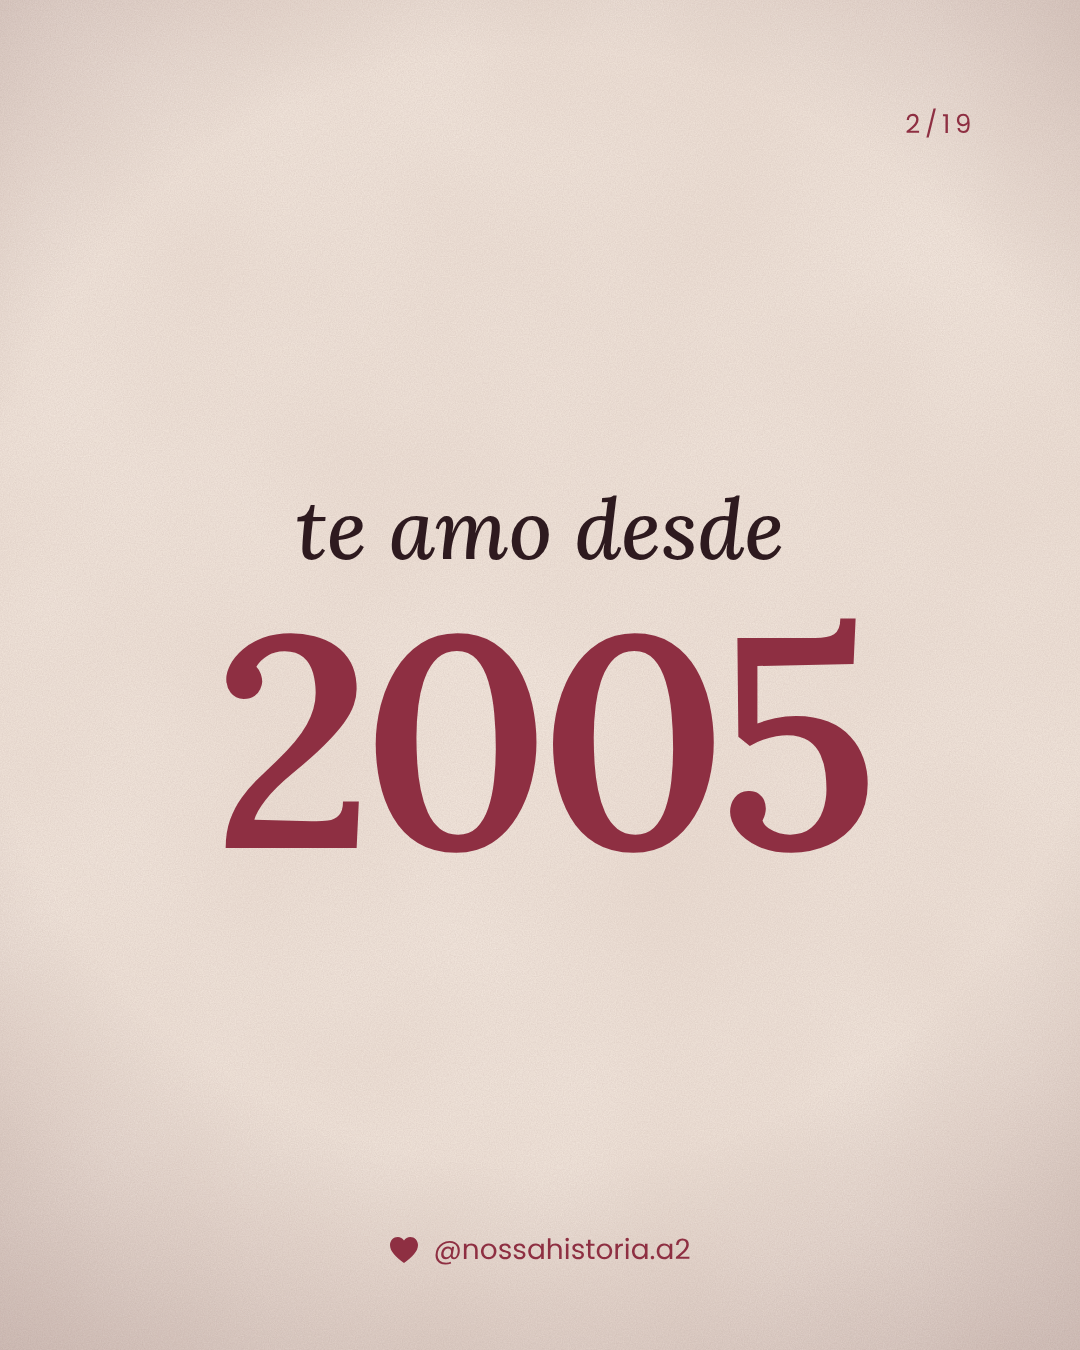
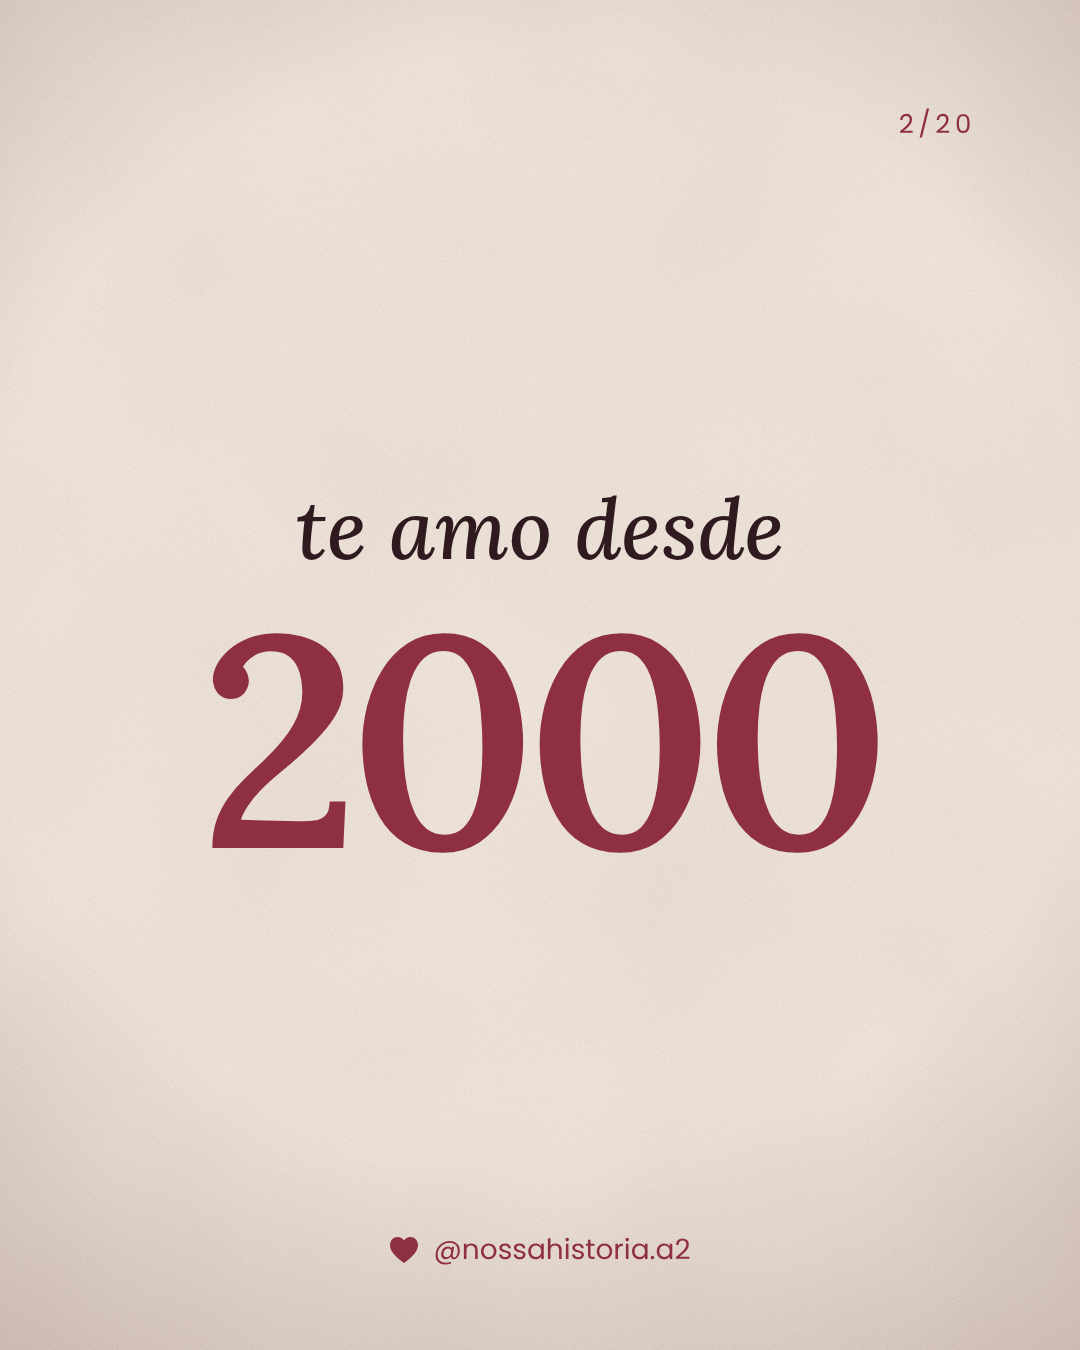
Te amo desde: capa com reticências (20 slides)
Claude-Session: https://claude.ai/code/session_01X3h8uRSGZDdmQFJ11Dj56s

Changed region(s): [[0.1833, 0.4356, 0.825, 0.6533], [0.8556, 0.0622, 0.8861, 0.0933]]

diff --git a/kit/template.html b/kit/template.html
@@ -113,7 +113,7 @@ const R = {
   // frase sobre foto: {"type":"foto","img":"../fotos/x.jpg","pos":"center 30%","text":"...","fs":70}
   foto: (s,i,t) => frame(i, 'foto', `<div class="mark">“</div><div class="quote" style="--fs:${s.fs||70}px">${s.text}</div>`, {total:t, img:s.img, pos:s.pos, grain:s.grain}),
   // ano: {"type":"ano","year":"2000","bg":"#F7EFE6","fg":"#2E1A1F","acc":"#8E2F42","hint":"opcional","grain":.5}
-  ano: (s,i,t) => frame(i, 'ano', `<div class="ano-pre">te amo desde</div><div class="ano-num">${s.year}</div>${s.hint?`<div class="ano-hint">${s.hint}</div>`:''}`, {total:t, center:true, grain:s.grain, vars:`--bgc:${s.bg};--fgc:${s.fg};--acc:${s.acc}`}),
+  ano: (s,i,t) => frame(i, 'ano', (s.year==='...' ? `<div class="ano-pre" style="font-size:132px;line-height:1.1">te amo<br>desde...</div>` : `<div class="ano-pre">te amo desde</div><div class="ano-num">${s.year}</div>`) + `${s.hint?`<div class="ano-hint">${s.hint}</div>`:''}`, {total:t, center:true, grain:s.grain, vars:`--bgc:${s.bg};--fgc:${s.fg};--acc:${s.acc}`}),
   // conversa: {"type":"conversa","title":"opcional","msgs":[["ele","..."],["ela","..."]],"fs":46}
   conversa: (s,i,t) => frame(i, s.theme, `${s.title?`<div class="chat-title">${s.title}</div>`:''}<div class="chat">${s.msgs.map(([w,txt])=>`<div class="msg ${w}" style="--fs:${s.fs||46}px"><span class="who">${w==='ele'?(s.ele||'ele'):(s.ela||'ela')}</span>${txt}</div>`).join('')}</div>`, {total:t, head:s.head||""}),
   // capa: {"type":"capa","kicker":"...","title":"...","sub":"...","fs":104}
